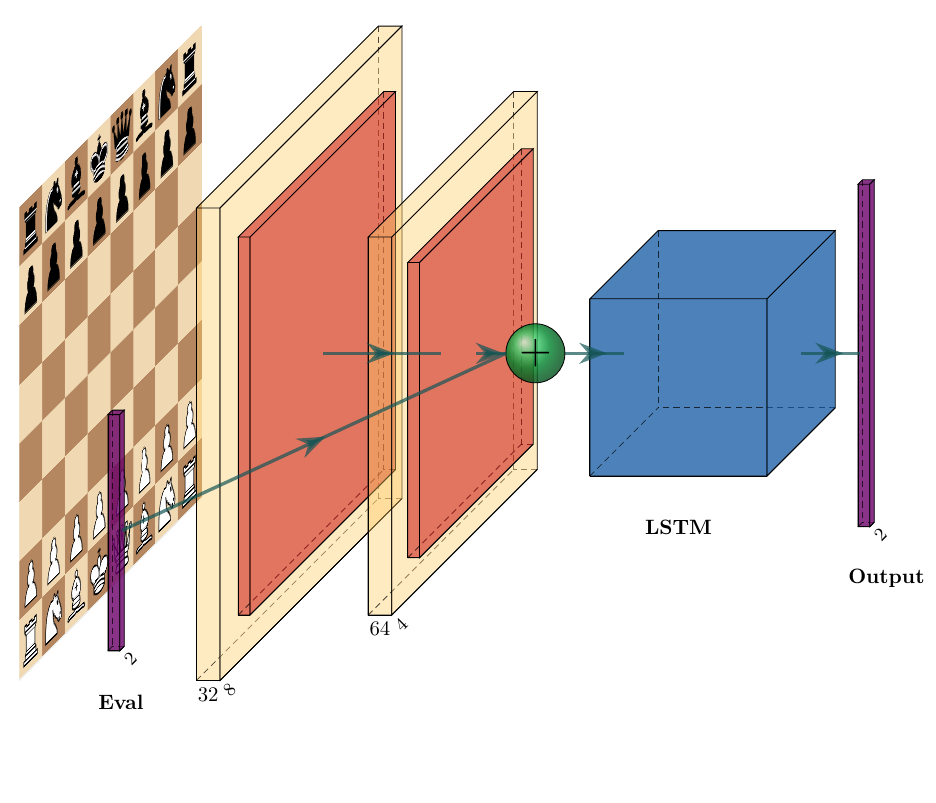
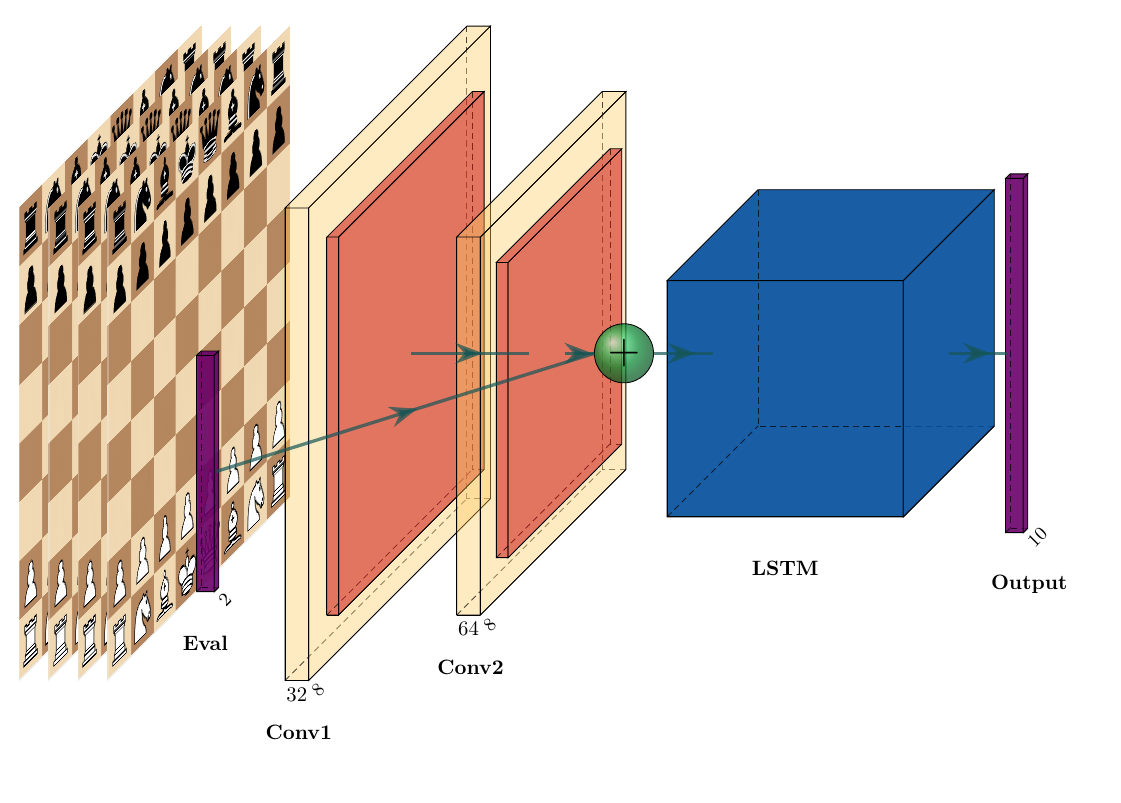
added more layers in input

diff --git a/elo_ai/models/rating_ranges/Graphs/architecture.py b/elo_ai/models/rating_ranges/Graphs/architecture.py
@@ -1,0 +1,46 @@
+import sys
+sys.path.append('../')
+from pycore.tikzeng import *
+
+# defined your arch
+arch = [
+    
+    to_head( '..' ),
+    to_cor(),
+    to_begin(),
+
+    to_input('/home/hlias/code/machine_learning/elo_guesser/video/chessboard_transparecy/20.png', to='(-4.5,0,0)',),
+    to_input('/home/hlias/code/machine_learning/elo_guesser/video/chessboard_transparecy/20.png', to='(-4,0,0)',),
+    to_input('/home/hlias/code/machine_learning/elo_guesser/video/chessboard_transparecy/20.png', to='(-3.5,0,0)',),
+    to_input('/home/hlias/code/machine_learning/elo_guesser/video/chessboard_transparecy/20.png'),
+
+    to_Conv('conv1', s_filer=8, n_filer=32, offset="(0,0,0)", to="(0,0,0)", width=2, height=40, depth=40, caption="Conv1"),
+    to_Pool('pool1', offset="(0,0,0)", to="(conv1-east)", width=1, height=32, depth=32, opacity=0.5),
+
+    to_Conv('conv2', s_filer=8, n_filer=64, offset="(2,0,0)", to="(pool1-east)", width=2, height=32, depth=32, caption="Conv2"),
+    to_Pool('pool2', offset="(0,0,0)", to="(conv2-east)", width=1, height=25, depth=25, opacity=0.5),
+
+    to_connection('pool1', 'conv2'),
+
+    to_Sum('cat', offset="(1,0,0)", to="(pool2-east)", opacity=0.7),
+
+    to_SoftMax('eval', offset="(-3, -2, 0)", to='(0,0,0)', s_filer=2, height=20, depth=1, opacity=0.9, caption="Eval"),
+
+    to_connection('pool2', 'cat'),
+    to_connection('eval', 'cat'),
+
+    to_UnPool('lstm', offset="(1,0,0)", to="(cat-east)", width=20, height=20, depth=20, opacity=0.9, caption="LSTM"),
+    to_connection('cat', 'lstm'),
+
+    to_SoftMax('output', offset="(1,0,0)", to="(lstm-east)", height=30, depth=1, opacity=0.9, caption="Output"),
+    to_connection('lstm', 'output'),
+    
+    to_end()
+    ]
+
+def main():
+    namefile = str(sys.argv[0]).split('.')[0]
+    to_generate(arch, namefile + '.tex' )
+
+if __name__ == '__main__':
+    main()
